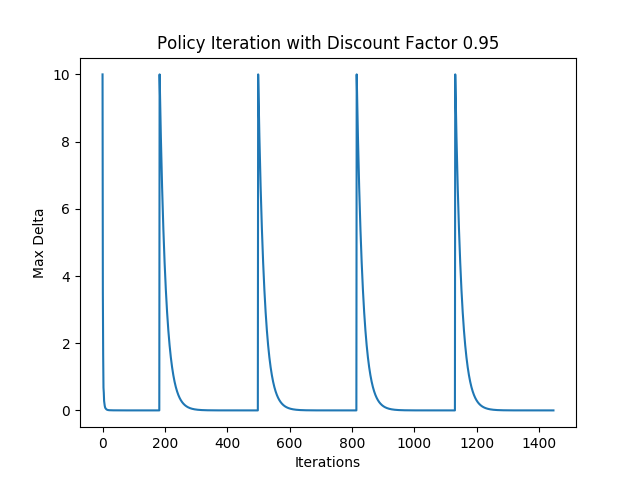
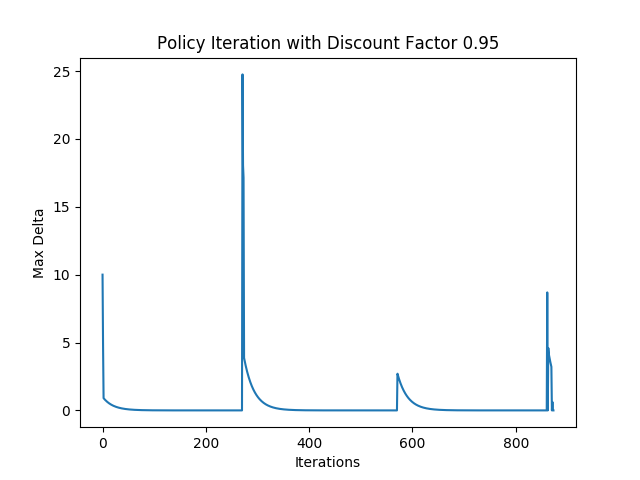
updated graphs

diff --git a/Results/results.md b/Results/results.md
@@ -89,9 +89,9 @@ Value Function:
 
 ## Policy Iteration with Random Policy, Discount Factor 0.99:
 
-Iterations: 7349
+Iterations: 2989
 
-Policy Stopped Changing: 5744
+Policy Stopped Changing: 2988
 
 Value Map: 
 [[201.9998 204.0402 201.9998 199.0402 197.0498]
@@ -110,9 +110,9 @@ Policy Table:
 
 ## Policy Iteration with Random Policy, Discount Factor 0.95:
 
-Iterations: 1447
+Iterations: 874
 
-Policy Stopped Changing: 1131
+Policy Stopped Changing: 873
 
 Value Map: 
 [[41.9947 44.2049 41.9947 39.2049 37.2447]
@@ -131,9 +131,9 @@ Policy Table:
 
 ## Policy Iteration with Random Policy, Discount Factor 0.8:
 
-Iterations: 192
+Iterations: 140
 
-Policy Stopped Changing: 118
+Policy Stopped Changing: 139
 
 Value Map: 
 [[11.8991 14.8739 11.8991 10.2459  8.1967]
